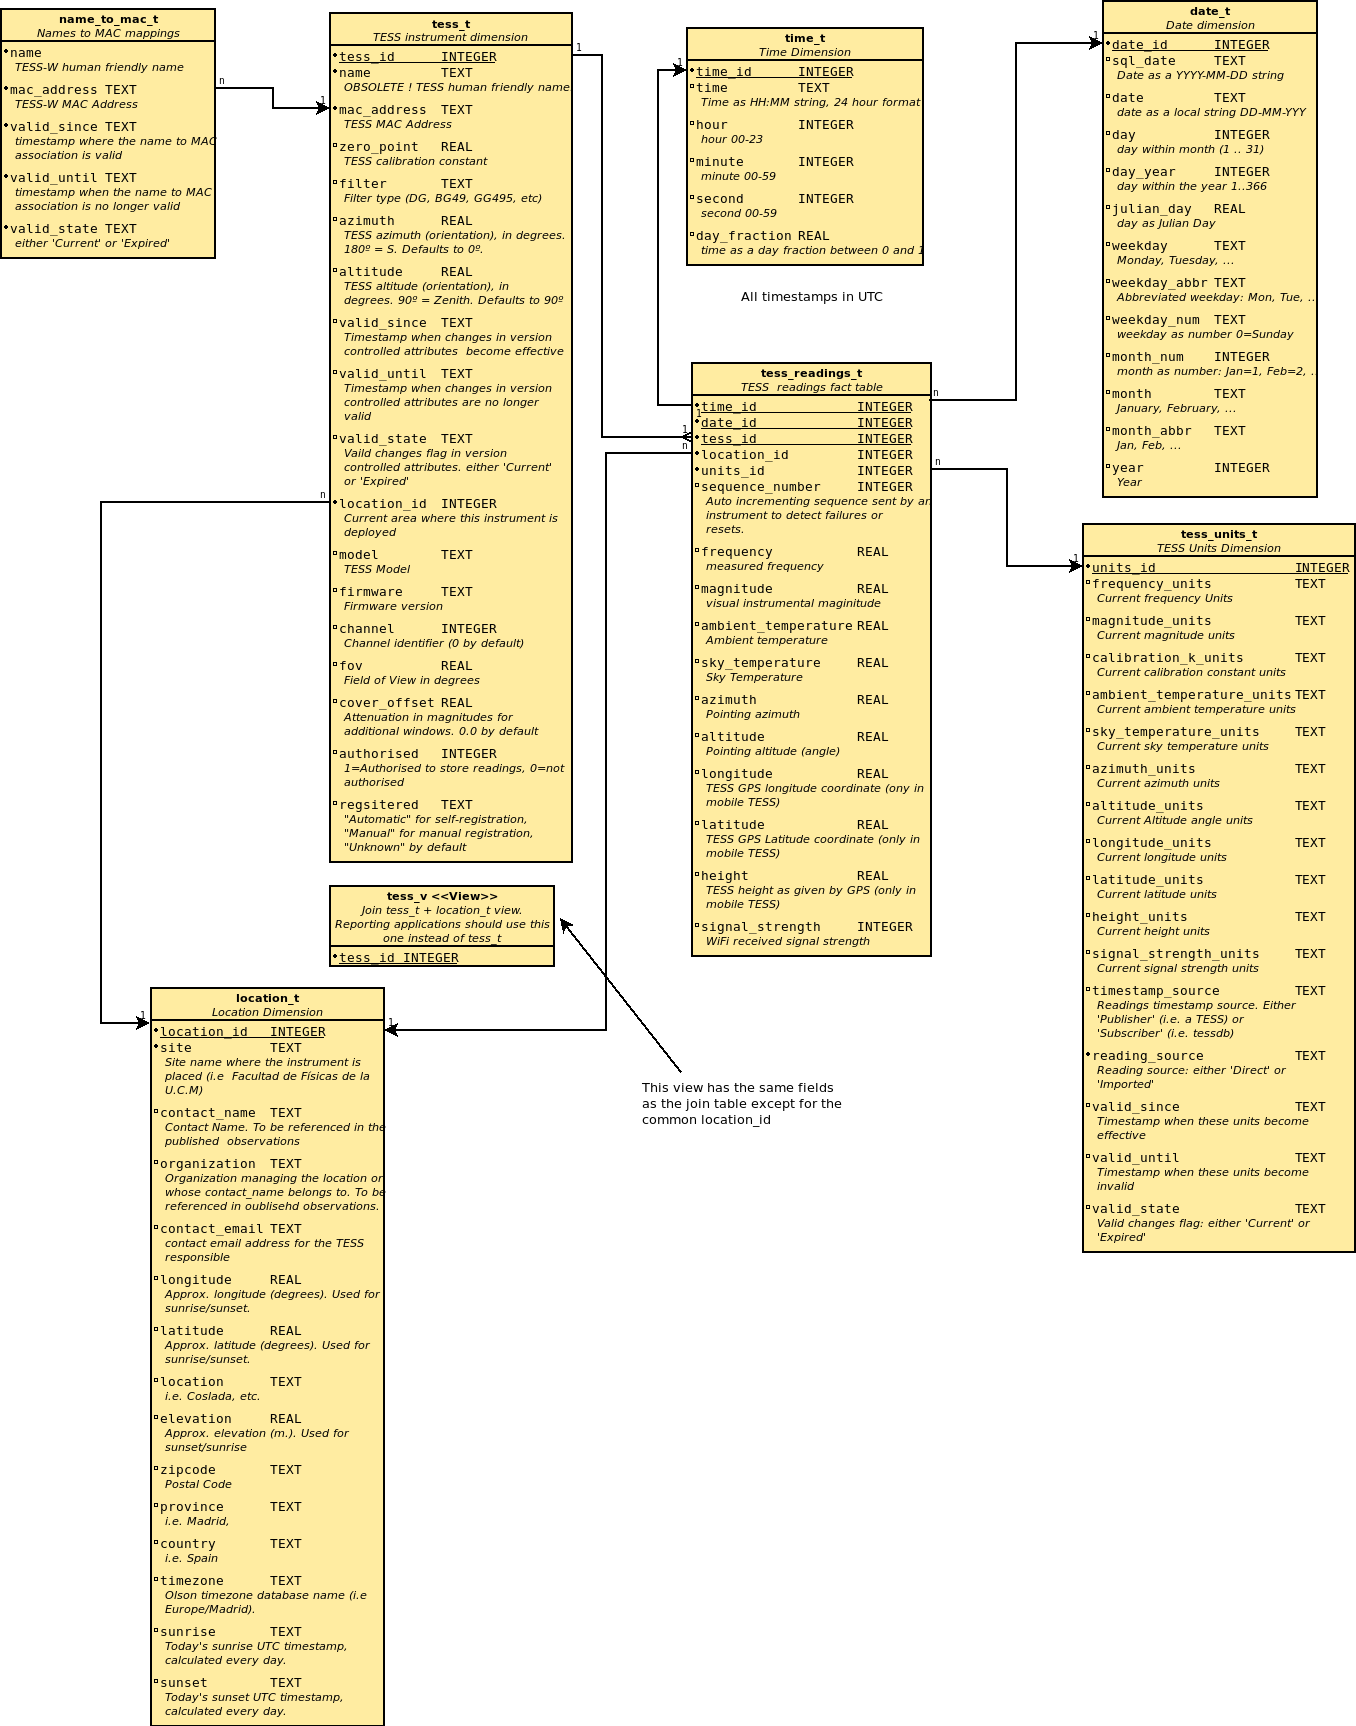
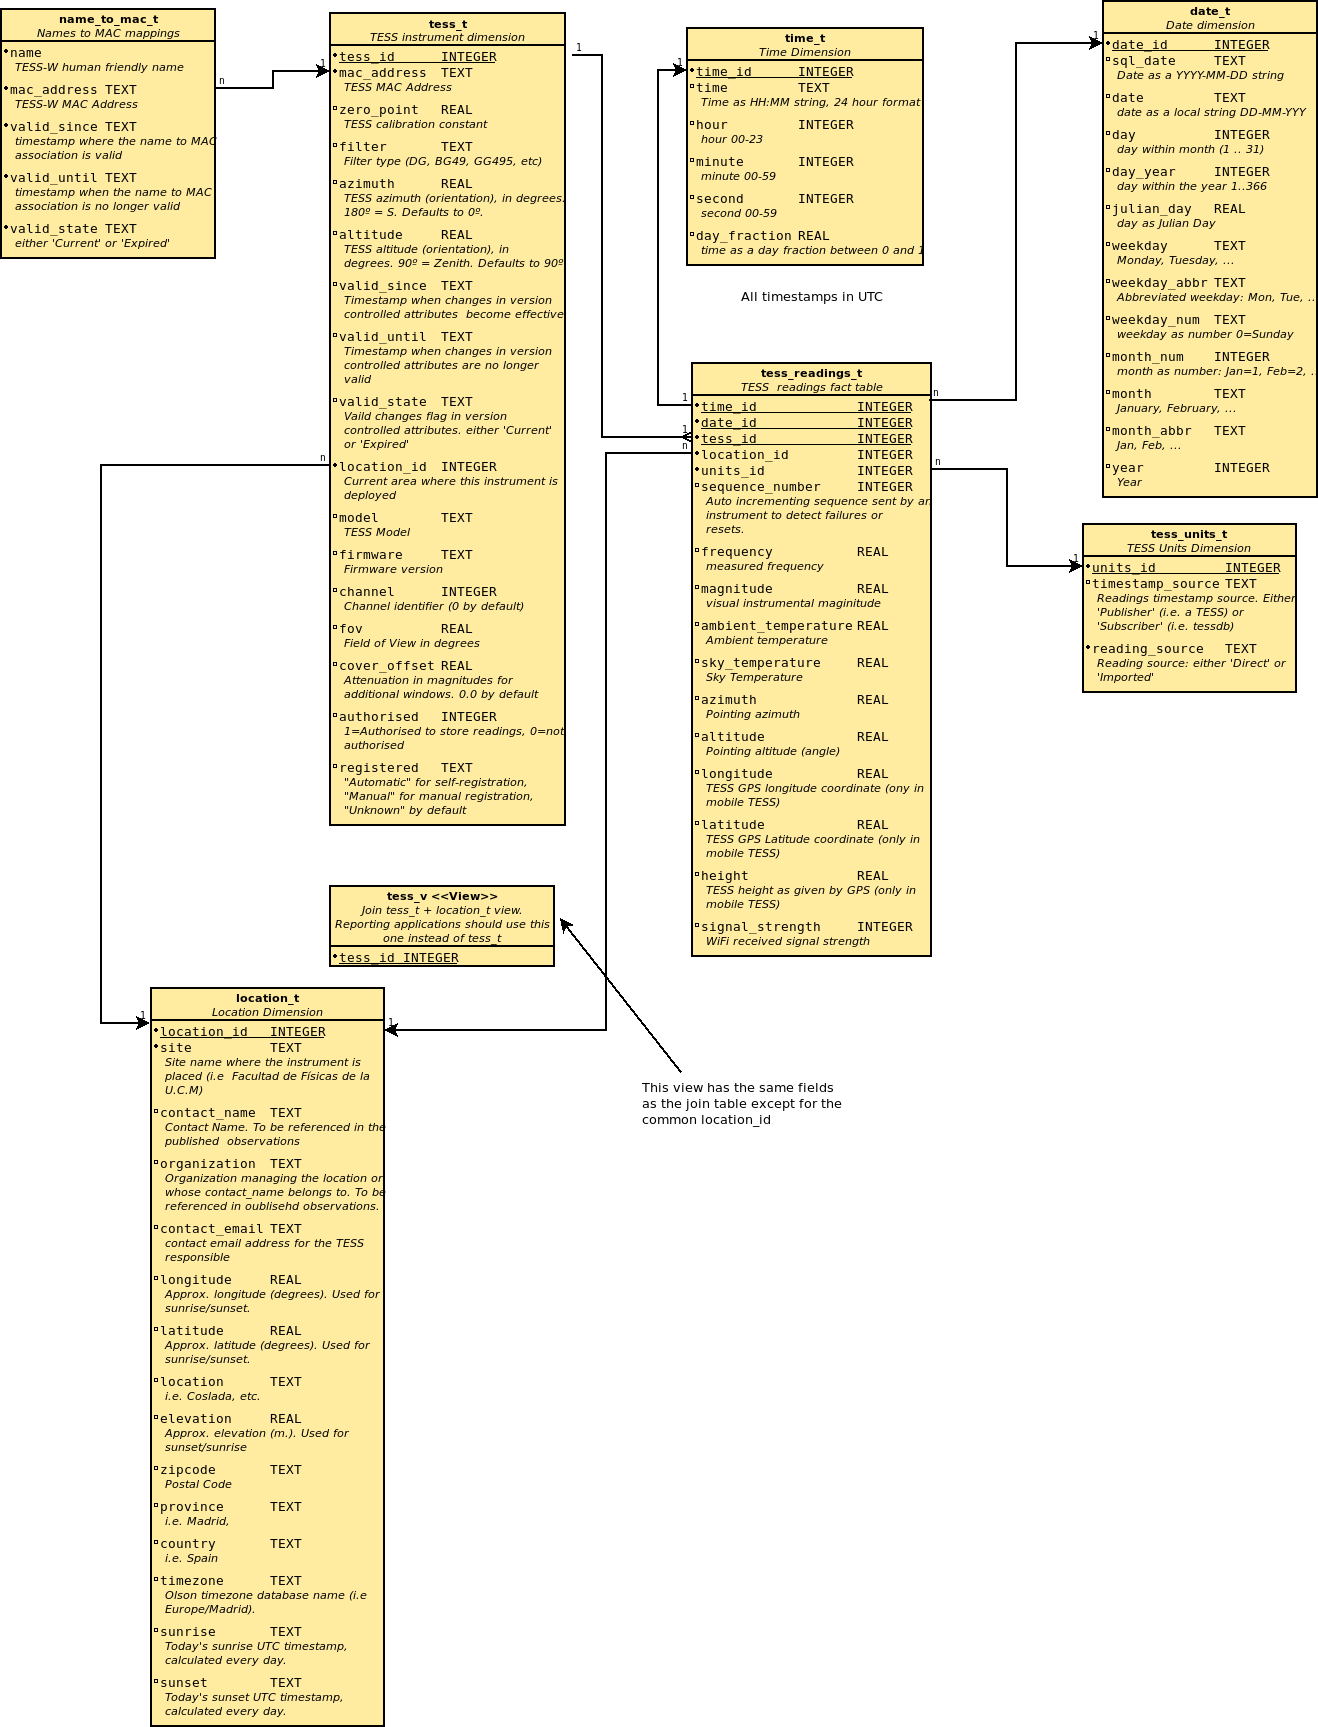
updated documentation

diff --git a/README.md b/README.md
@@ -77,7 +77,7 @@ This file is self explanatory.
 In special, the database file name and location is specified in this file.
 Some of the properities marked in this file are marked as *reloadable property*. This means that this value can be changed and the process reloads its new value on the fly.
 
-## Sunrise / Sunset filtering
+## Sunrise / Sunset filtering (obsolete)
 It is recommended to activate the sunrise/sunset filter to reject TESS readings coming in daytime and avoid unnecessary grouth in the database.
 Each location has a latitude (degrees), longitude (degrees) and elevation (meters) which can be neglected is this filter is not used. 
 
@@ -85,6 +85,16 @@ Activating this filter have the following conecuences:
 1. Once a day, at arount 00:00 UTC, all locations will have their sunrise and sunset time computed, according to the local horizon defined (configurable).
 2. Instruments assigned to locations found to be in daytime will have their readings rejected.
 3. ***New***: ***Instruments assigned to locations with `NULL` or `Unknown` longitude, latitude or elvation will have their readings accepted anyway***. The only way to enable or disable writting to the database is by using the *tess utility*.
+
+## Sunrise / Sunset filtering (new)
+
+A configurable window (7 default) of sampled is stored in the server for each photometer. 
+A filter process analyzes the middle sample in this window, if it finds all saturated values (magnitude=0)
+around this middle sample (past and future), this sample is discarded, other¡wise it is elegible to be written to the database.
+
+*Positive*: This filtering does not need to kenow where the phoytometer is placed.
+*Negative*: There is a time lag (Window size/2) between receiving the sample and storing it.
+Furthermore, if the server crashes or is abruptly stopped, the so-called "future samples" are lost.
 
 ## Logging
 
@@ -184,7 +194,6 @@ This dimension holds the current list of TESS instruments.
 
 * The real key is an artificial key `tess_id` linked to the Fact table.
 * The `mac_address` could be the natural key if it weren't for the zero point and filter history tracking.
-* (OBSOLETE !) (To be removed soon) The `name` attribute could be an alternative key for the same reason. TESS instruments send readings using this name in the MQTT payload. A TESS instrument name can be changed as long as there is no other instrument with the same name.
 * The `location_id` is a reference to the current location assigned to the instrument. Location id -1 denotes the "Unknown" location.
 * `model` refers to the current TESS model.
 * `firmware` contains the current firmware version.
@@ -208,9 +217,9 @@ The current valid TESS instrument has its `valid_state` set to `Current` and the
 
 #### Unit dimension
 
-The `tess_units_t` table is what Dr. Kimball denotes as a *junk dimension*. It collects various labels denoting the current measurement units of samples in the fact table. 
+The `tess_units_t` table collects various flags for the fact table. 
 
-* Columns `valid_since`, `valid_until` and `valid_state` keep track of any units change in a similar technique as above should the units change.
+* (OBSOLETE) Columns `valid_since`, `valid_until` and `valid_state` keep track of any units change in a similar technique as above should the units change.
 
 #### Location dimension
 
@@ -258,7 +267,7 @@ The following are samples queries illustraing how to use the data model. They ar
 sqlite3 /var/dbase/tess.db <<EOF
 .mode column
 .headers on
-SELECT d.sql_date, i.name, count(*) AS readings
+SELECT d.sql_date, i.mac_address, count(*) AS readings
 FROM tess_readings_t AS r
 JOIN tess_t AS i USING (tess_id)
 JOIN date_t AS d USING (date_id)
@@ -273,13 +282,13 @@ EOF
 #!/bin/bash
 instrument_name=$1
 sqlite3 -csv -header /var/dbase/tess.db <<EOF
-SELECT (d.julian_day + t.day_fraction) AS julian_day, (d.sql_date || 'T' || t.time) AS timestamp, r.sequence_number, l.site, i.name, r.frequency, r.magnitude, i.zero_point, r.sky_temperature, r.ambient_temperature
+SELECT (d.julian_day + t.day_fraction) AS julian_day, (d.sql_date || 'T' || t.time) AS timestamp, r.sequence_number, l.site, i.mac_address, r.frequency, r.magnitude, i.zero_point, r.sky_temperature, r.ambient_temperature
 FROM tess_readings_t AS r
 JOIN tess_t          AS i USING (tess_id)
 JOIN location_t      AS l USING (location_id)
 JOIN date_t          AS d USING (date_id)
 JOIN time_t          AS t USING (time_id)
-WHERE i.name = "${instrument_name}"
+WHERE i.mac_address  IN (SELECT mac_address FROM name_to_mac_t WHERE name = "${instrument_name}")
 ORDER BY r.date_id ASC, r.time_id ASC;
 EOF
 ```
@@ -317,13 +326,13 @@ EOF
 sqlite3 /var/dbase/tess.db <<EOF
 .mode column
 .headers on;
-SELECT i.name, MIN(d.sql_date || 'T' || t.time || 'Z') AS earliest, MAX(d.sql_date || 'T' || t.time || 'Z') AS latest
+SELECT i.mac_address, MIN(d.sql_date || 'T' || t.time || 'Z') AS earliest, MAX(d.sql_date || 'T' || t.time || 'Z') AS latest
 FROM tess_readings_t AS r
 JOIN tess_t          AS i USING (tess_id)
 JOIN location_t      AS l USING (location_id)
 JOIN date_t          AS d USING (date_id)
 JOIN time_t          AS t USING (time_id)
-GROUP BY i.name;
+GROUP BY i.mac_address;
 EOF
 ```
 
@@ -336,7 +345,7 @@ sqlite3 /var/dbase/tess.db <<EOF
 SELECT l.site
 FROM location_t        AS l 
 LEFT OUTER JOIN tess_t AS i USING (location_id)
-WHERE i.name IS NULL;
+WHERE i.mac_address IS NULL;
 EOF
 ```
 
